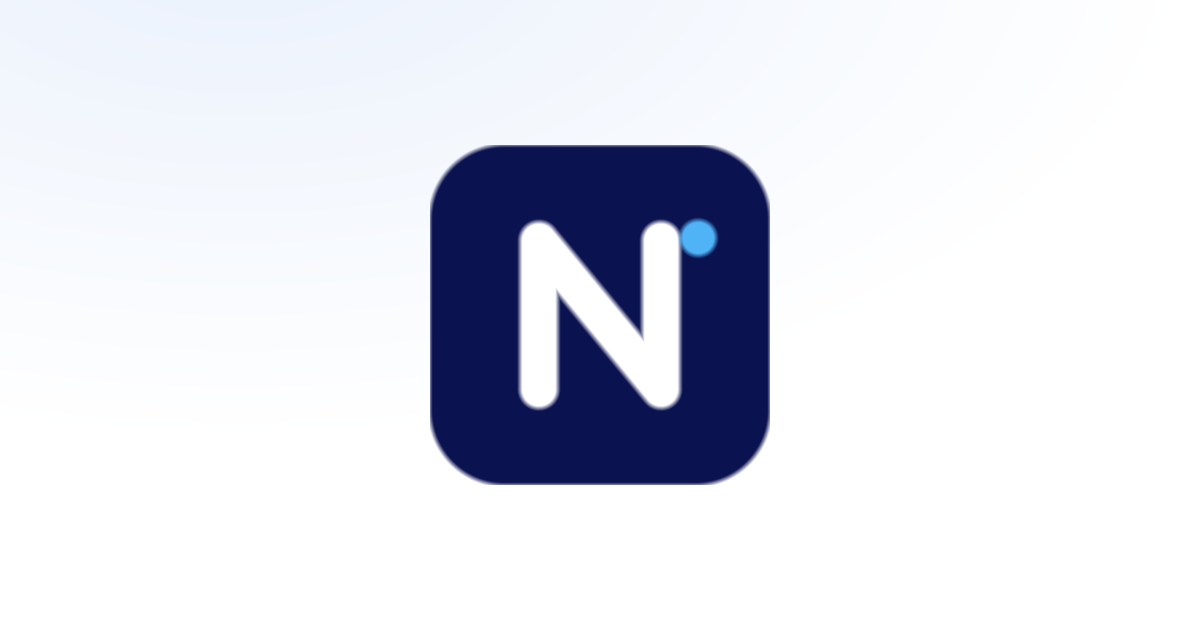
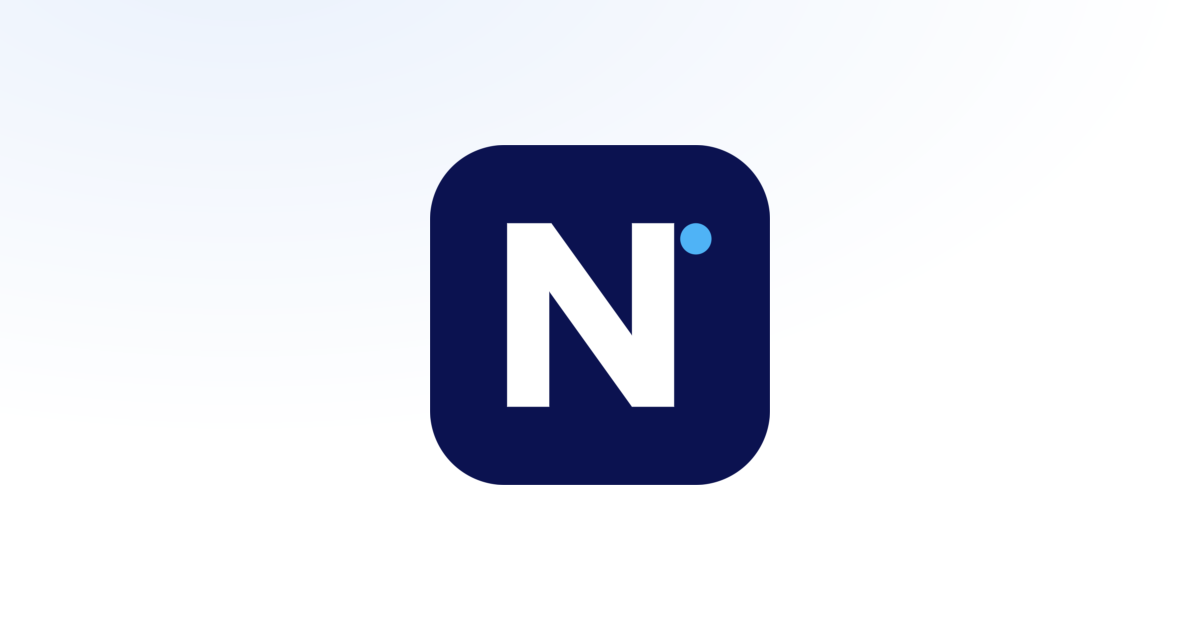
Het merkteken in de nieuwe stijl op alle pagina's
Het tabbladicoon was nog de oude N: een dunne streek in een vierkant van
64 bij 64. De nieuwe stijl heeft een gevulde N in een ruimer afgerond vlak,
dezelfde vorm als het woordmerk op de campagnepagina. Op 16 pixels in een
tabblad is dat het verschil tussen een vlek en een leesbare letter.

- public/merk.svg is de nieuwe vorm, in het vlak van 1000 bij 1000 waarin
  het logo is getekend. De c2pa-gegevens uit het bronbestand zijn eruit,
  net als bij het woordmerk.
- src/merk.js tekent hetzelfde monogram, zodat de code en het bestand niet
  uit elkaar lopen.
- scripts/maak-merk.mjs tekende de N nog als drie streken. De N is nu een
  vlak, dus staat er een afstandsfunctie voor een veelhoek in de plaats van
  de losse lijnen en de ongebruikte boog. De rand loopt voortaan over precies
  één uitvoerpixel uit in plaats van over een vaste breedte in het ontwerp,
  waardoor het kleine icoon scherper wordt. icoon-180, icoon-512 en de
  deelkaart zijn opnieuw getekend.
- De cijferpagina miste het telefoonicoon en de themakleur; die staan er nu
  net als op elke andere pagina.
- Een toets houdt het bestand en het monogram voortaan naast elkaar, zodat
  een volgende wijziging niet half doorkomt.

Claude-Session: https://claude.ai/code/session_01UrikZJC2yGbqtZHjc9haku

diff --git a/test/merk.test.js b/test/merk.test.js
@@ -26,7 +26,7 @@ test.after(async () => {
 const haal = (pad) => fetch(basisUrl + pad);
 const PUBLIEKE_PAGINAS = ['/', '/aanvraag', '/hoe-werkt-het', '/aanvraag-klassiek',
   '/uwv-wia', '/bijstand', '/studiefinanciering'];
-const ALLE_PAGINAS = [...PUBLIEKE_PAGINAS, '/beheer'];
+const ALLE_PAGINAS = [...PUBLIEKE_PAGINAS, '/beheer', '/cijfers'];
 
 test('de oude naam staat nergens meer in de uitgeleverde pagina\'s', async () => {
   for (const pad of ALLE_PAGINAS) {
@@ -90,6 +90,23 @@ test('het merkteken en de iconen worden uitgeleverd met het juiste type', async 
     const lijf = await antwoord.arrayBuffer();
     assert.ok(lijf.byteLength > minimum, `${pad} is verdacht klein`);
   }
+});
+
+test('het icoon en het monogram tekenen hetzelfde merk', async () => {
+  // Het tabbladicoon, het telefoonicoon en het monogram in de code komen uit
+  // één ontwerp. Wie er één bijwerkt en de rest vergeet, laat de site met twee
+  // logo's achter; dat valt pas op als iemand de app op zijn scherm zet.
+  const svg = await (await haal('/merk.svg')).text();
+  const { MONOGRAM } = await import('../src/merk.js');
+  const vormen = (bron) => [
+    /rx="(\d+)"/.exec(bron)[1],
+    /<path d="([^"]+)"/.exec(bron)[1],
+    /<circle cx="(\d+)" cy="(\d+)" r="(\d+)"/.exec(bron).slice(1, 4).join(),
+  ];
+  assert.deepEqual(vormen(MONOGRAM), vormen(svg),
+    'src/merk.js en public/merk.svg tekenen een ander merk');
+  assert.match(svg, /viewBox="0 0 1000 1000"/);
+  assert.match(MONOGRAM, /viewBox="0 0 1000 1000"/);
 });
 
 test('elke pagina wijst naar het merkteken en naar het telefoonicoon', async () => {

diff --git a/src/merk.js b/src/merk.js
@@ -30,8 +30,8 @@ export function merklink() {
  * Alleen voor plekken waar een vierkant icoon hoort - het tabblad, de
  * telefoonknop, een gedeelde link. In de pagina zelf staat het woordmerk.
  */
-export const MONOGRAM = `<svg class="merk__teken" viewBox="0 0 64 64" role="img" aria-label="${MERKNAAM}">
-        <rect width="64" height="64" rx="14" fill="#0b1250"/>
-        <path d="M19 46V18h7l12 16.5V18h7v28h-7L26 29.5V46z" fill="#fff"/>
-        <circle cx="50.5" cy="17.5" r="3.4" fill="#4fb3f6"/>
+export const MONOGRAM = `<svg class="merk__teken" viewBox="0 0 1000 1000" role="img" aria-label="${MERKNAAM}">
+        <rect width="1000" height="1000" rx="220" fill="#0b1250"/>
+        <path d="M226.7 770V230h130.37L593.9 559.4V230h124.2v540H593.9L350.9 431.34V770z" fill="#fff"/>
+        <circle cx="782" cy="276" r="46" fill="#4fb3f6"/>
       </svg>`;

diff --git a/public/cijfers.html b/public/cijfers.html
@@ -6,6 +6,8 @@
 <title>Cijfers van NuBeslist</title>
 <meta name="robots" content="noindex, nofollow">
 <link rel="icon" href="/merk.svg" type="image/svg+xml">
+<link rel="apple-touch-icon" href="/icoon-180.png">
+<meta name="theme-color" content="#ffffff">
 <link rel="stylesheet" href="/assets/stijl.css">
 <style>
   .blad { max-width: 980px; margin: 0 auto; padding: 28px 16px 70px; }
